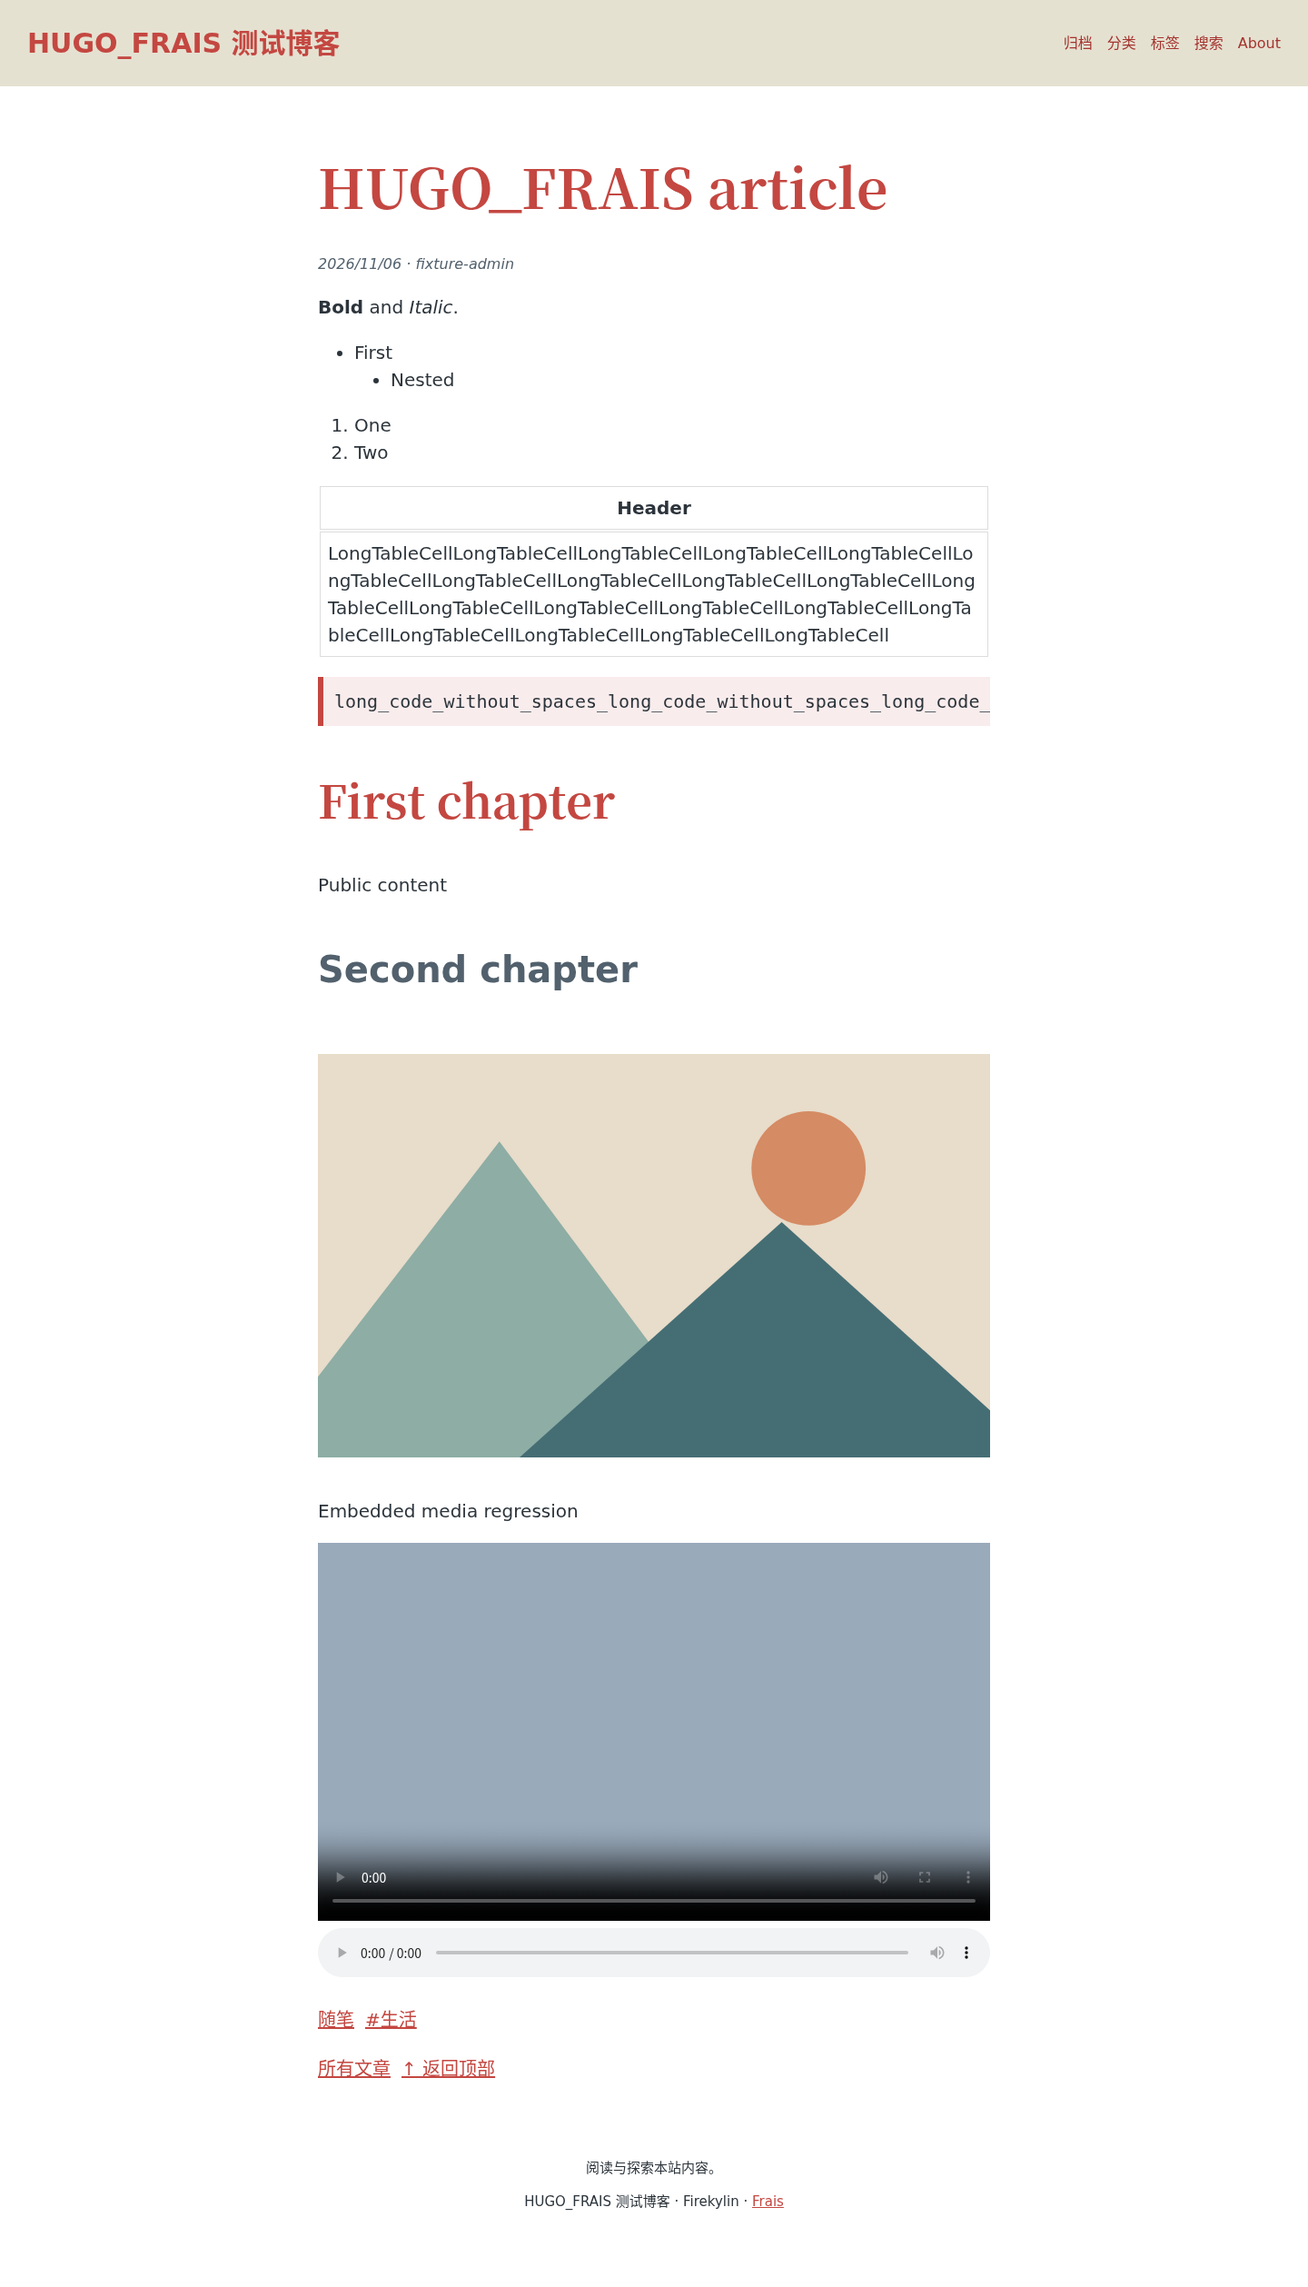
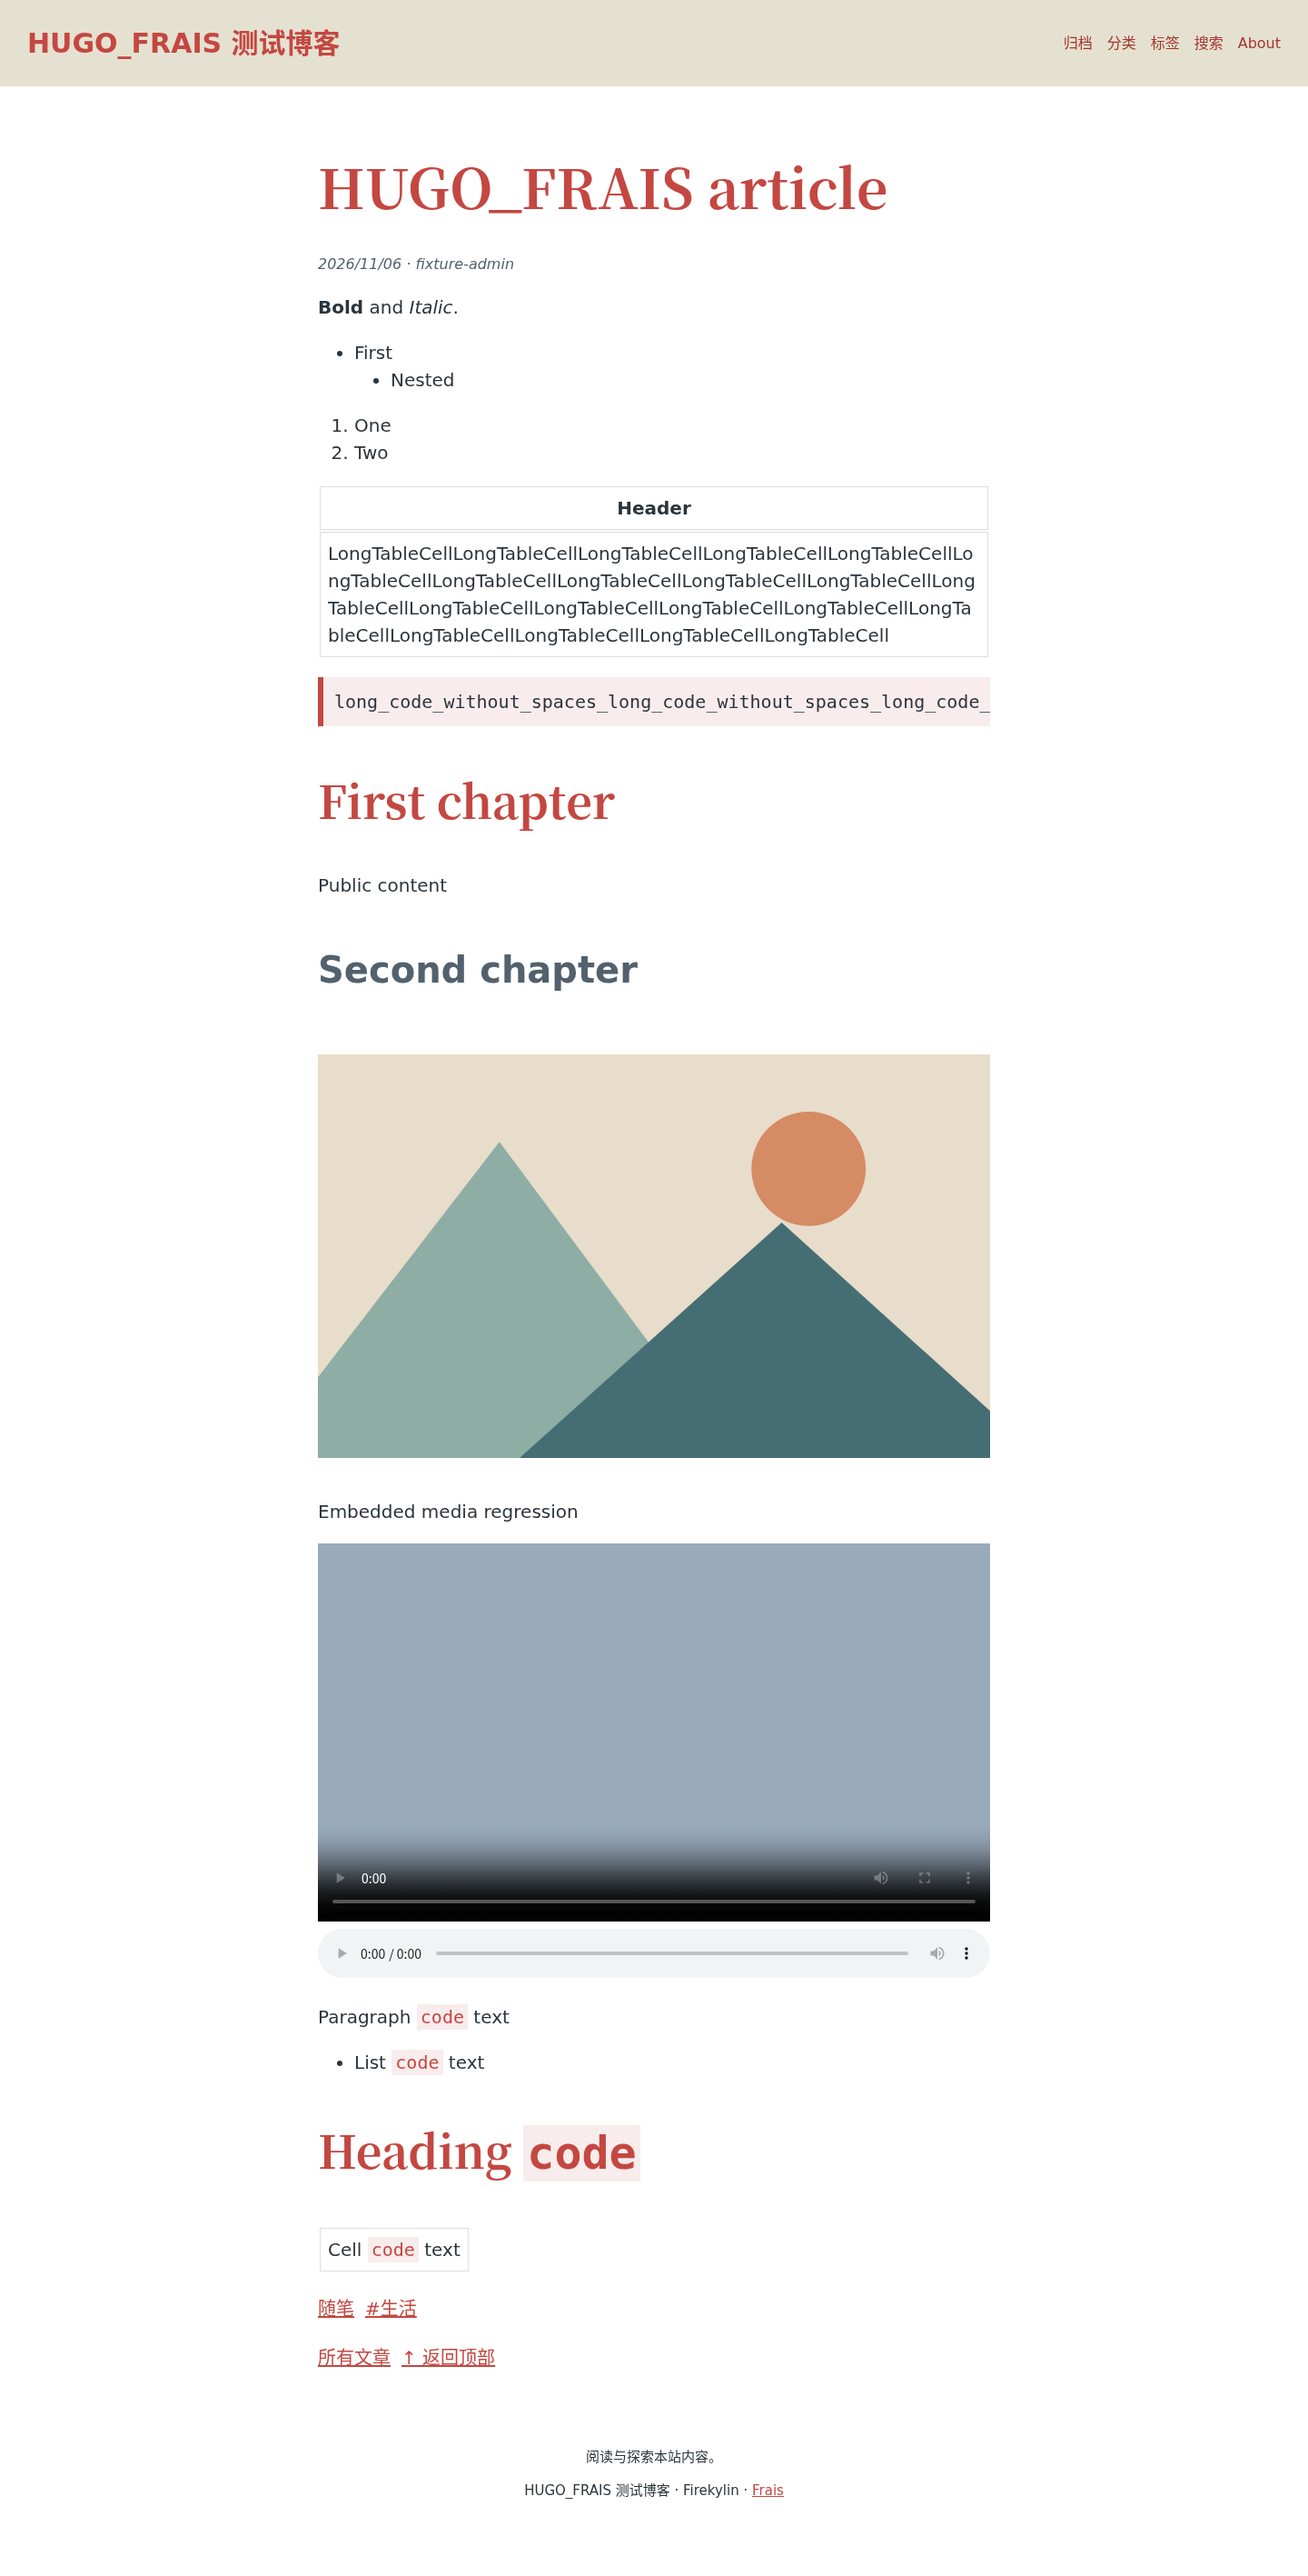
fix(frais): preserve inline code in lists tables and headings

diff --git a/packages/hugo-frais/res/css/theme.css b/packages/hugo-frais/res/css/theme.css
@@ -814,7 +814,7 @@ h2, h4, h6 {
 /* Native Firekylin integration: controls, media and code containment. */
 body{overflow-wrap:anywhere}.skip{position:absolute;top:-100px}.skip:focus{top:0;z-index:99}.native-nav{display:flex;flex-wrap:wrap;gap:10px 16px;margin:18px 0}.prose pre,.prose table{display:block;max-width:100%;overflow:auto}.prose img,.attachment-media img{max-width:100%;height:auto;margin:1rem 0}.attachment-media video,.attachment-media audio,.prose iframe{max-width:100%}.prose ul{list-style:disc}.prose ol{list-style:decimal}.prose li{display:list-item}.pagination{display:flex;justify-content:space-between;gap:12px;margin:32px 0}.post-actions,.tags{display:flex;gap:12px;flex-wrap:wrap;margin:24px 0}input,button{font:inherit;max-width:100%;box-sizing:border-box}form{display:flex;flex-wrap:wrap;gap:10px}input{min-width:0}:focus-visible{outline:2px solid currentColor;outline-offset:3px}
 
-:root{color-scheme:light}body{background:#fff}.header-wrapper{box-sizing:border-box;display:flex;align-items:center;justify-content:space-between;gap:20px;flex-wrap:wrap;background:#E5E1D1;padding:.5em 1.5em}.header-wrapper .headline{padding:0;background:transparent}.native-nav{font-size:.8em;margin:0}.native-nav a{color:#a5342f}.content{box-sizing:border-box;padding-top:35px}.post__title{line-height:1.2}.post-detail .post-title{font-size:3em;line-height:1.15}.post-detail .post-date{font-size:.8em;color:#52616D;font-style:italic}.post__meta{font-size:.8em}.native-footer{text-align:center;max-width:40em;margin:3em auto;padding:1.5em;font-size:.75em}.prose pre{background:rgba(196,71,65,.1);border-left:6px solid #C44741;padding:12px}.prose pre code{display:inline;background:transparent;border:0;margin:0;padding:0;color:inherit}.prose p code{display:inline;border-left:0;padding:2px 4px;margin:0}.prose table th,.prose table td{padding:8px;border:1px solid #ddd}.post--preview{margin-bottom:3em}.post__excerpt{margin-top:1.2em}@media(max-width:600px){.header-wrapper{padding:16px 20px}.headline__title{font-size:1.2em}.content{padding:20px}.post-detail .post-title{font-size:2em}}
+:root{color-scheme:light}body{background:#fff}.header-wrapper{box-sizing:border-box;display:flex;align-items:center;justify-content:space-between;gap:20px;flex-wrap:wrap;background:#E5E1D1;padding:.5em 1.5em}.header-wrapper .headline{padding:0;background:transparent}.native-nav{font-size:.8em;margin:0}.native-nav a{color:#a5342f}.content{box-sizing:border-box;padding-top:35px}.post__title{line-height:1.2}.post-detail .post-title{font-size:3em;line-height:1.15}.post-detail .post-date{font-size:.8em;color:#52616D;font-style:italic}.post__meta{font-size:.8em}.native-footer{text-align:center;max-width:40em;margin:3em auto;padding:1.5em;font-size:.75em}.prose pre{background:rgba(196,71,65,.1);border-left:6px solid #C44741;padding:12px}.prose pre code{display:inline;background:transparent;border:0;margin:0;padding:0;color:inherit}.prose code{display:inline;border-left:0;padding:2px 4px;margin:0}.prose table th,.prose table td{padding:8px;border:1px solid #ddd}.post--preview{margin-bottom:3em}.post__excerpt{margin-top:1.2em}@media(max-width:600px){.header-wrapper{padding:16px 20px}.headline__title{font-size:1.2em}.content{padding:20px}.post-detail .post-title{font-size:2em}}
 
 /* Native post/page media may declare dimensions wider than the reading column. */
 .prose video,.prose audio{max-width:100%;box-sizing:border-box}.prose video{height:auto}
